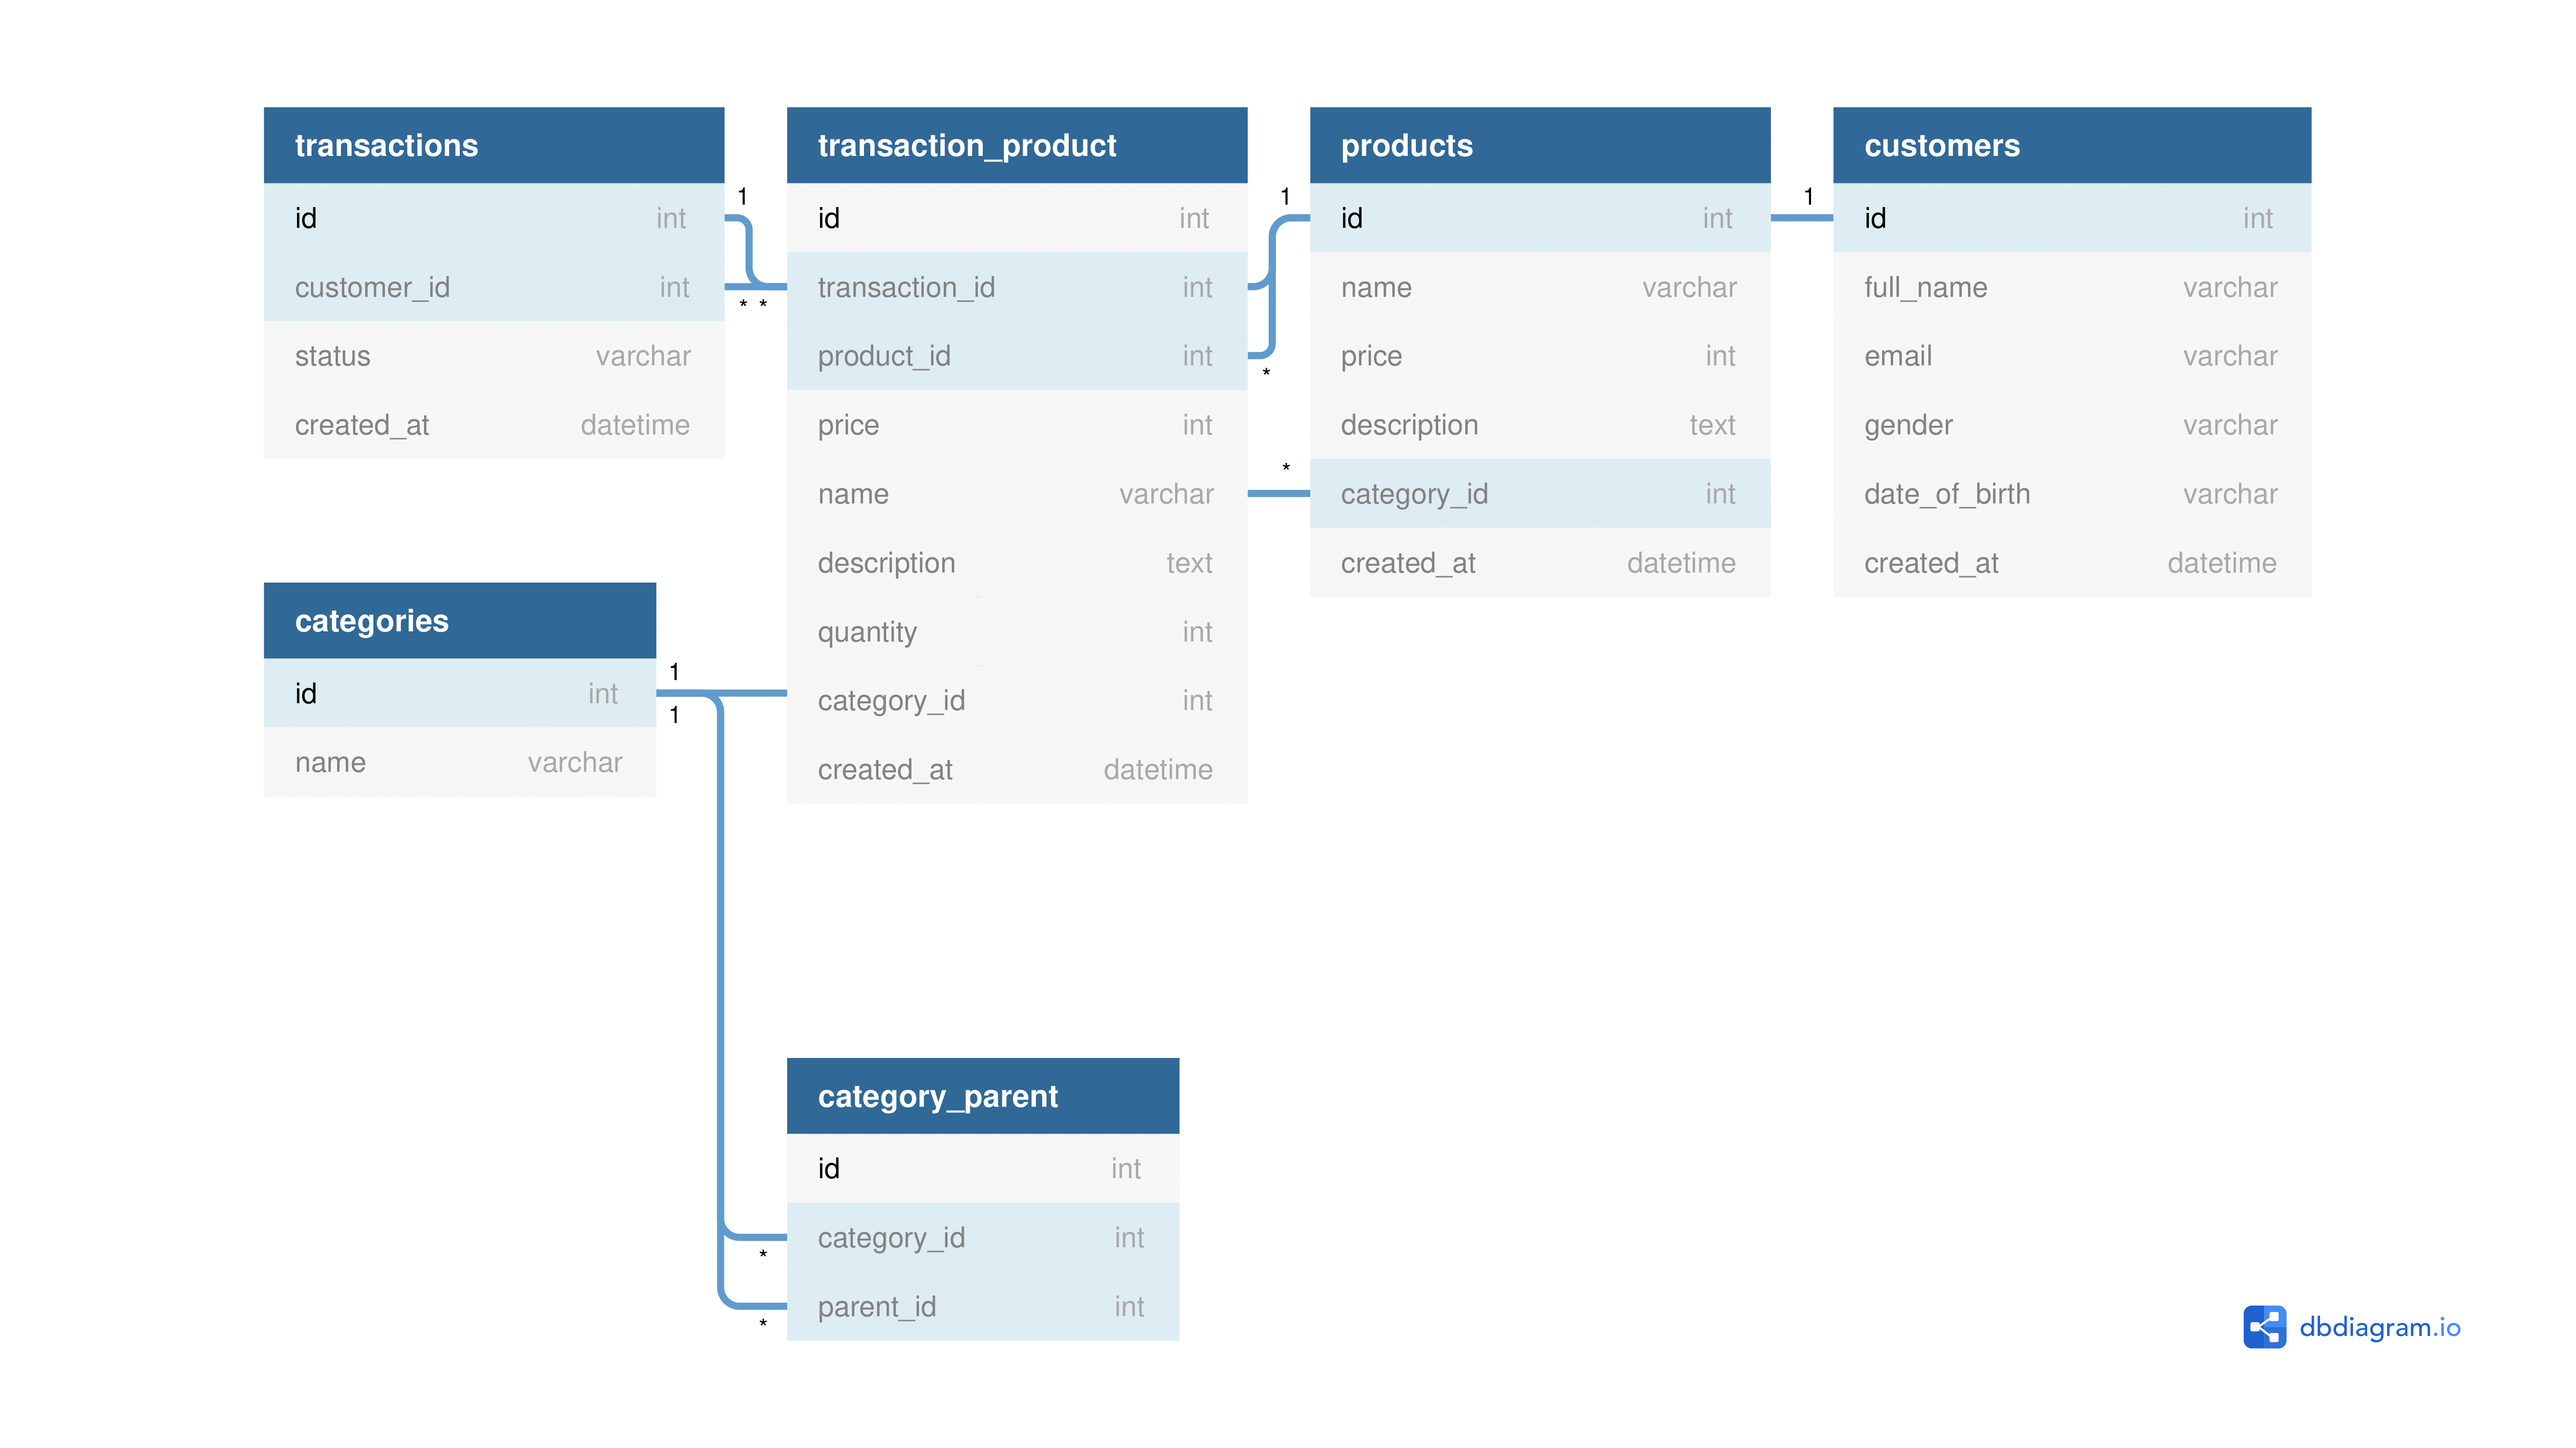
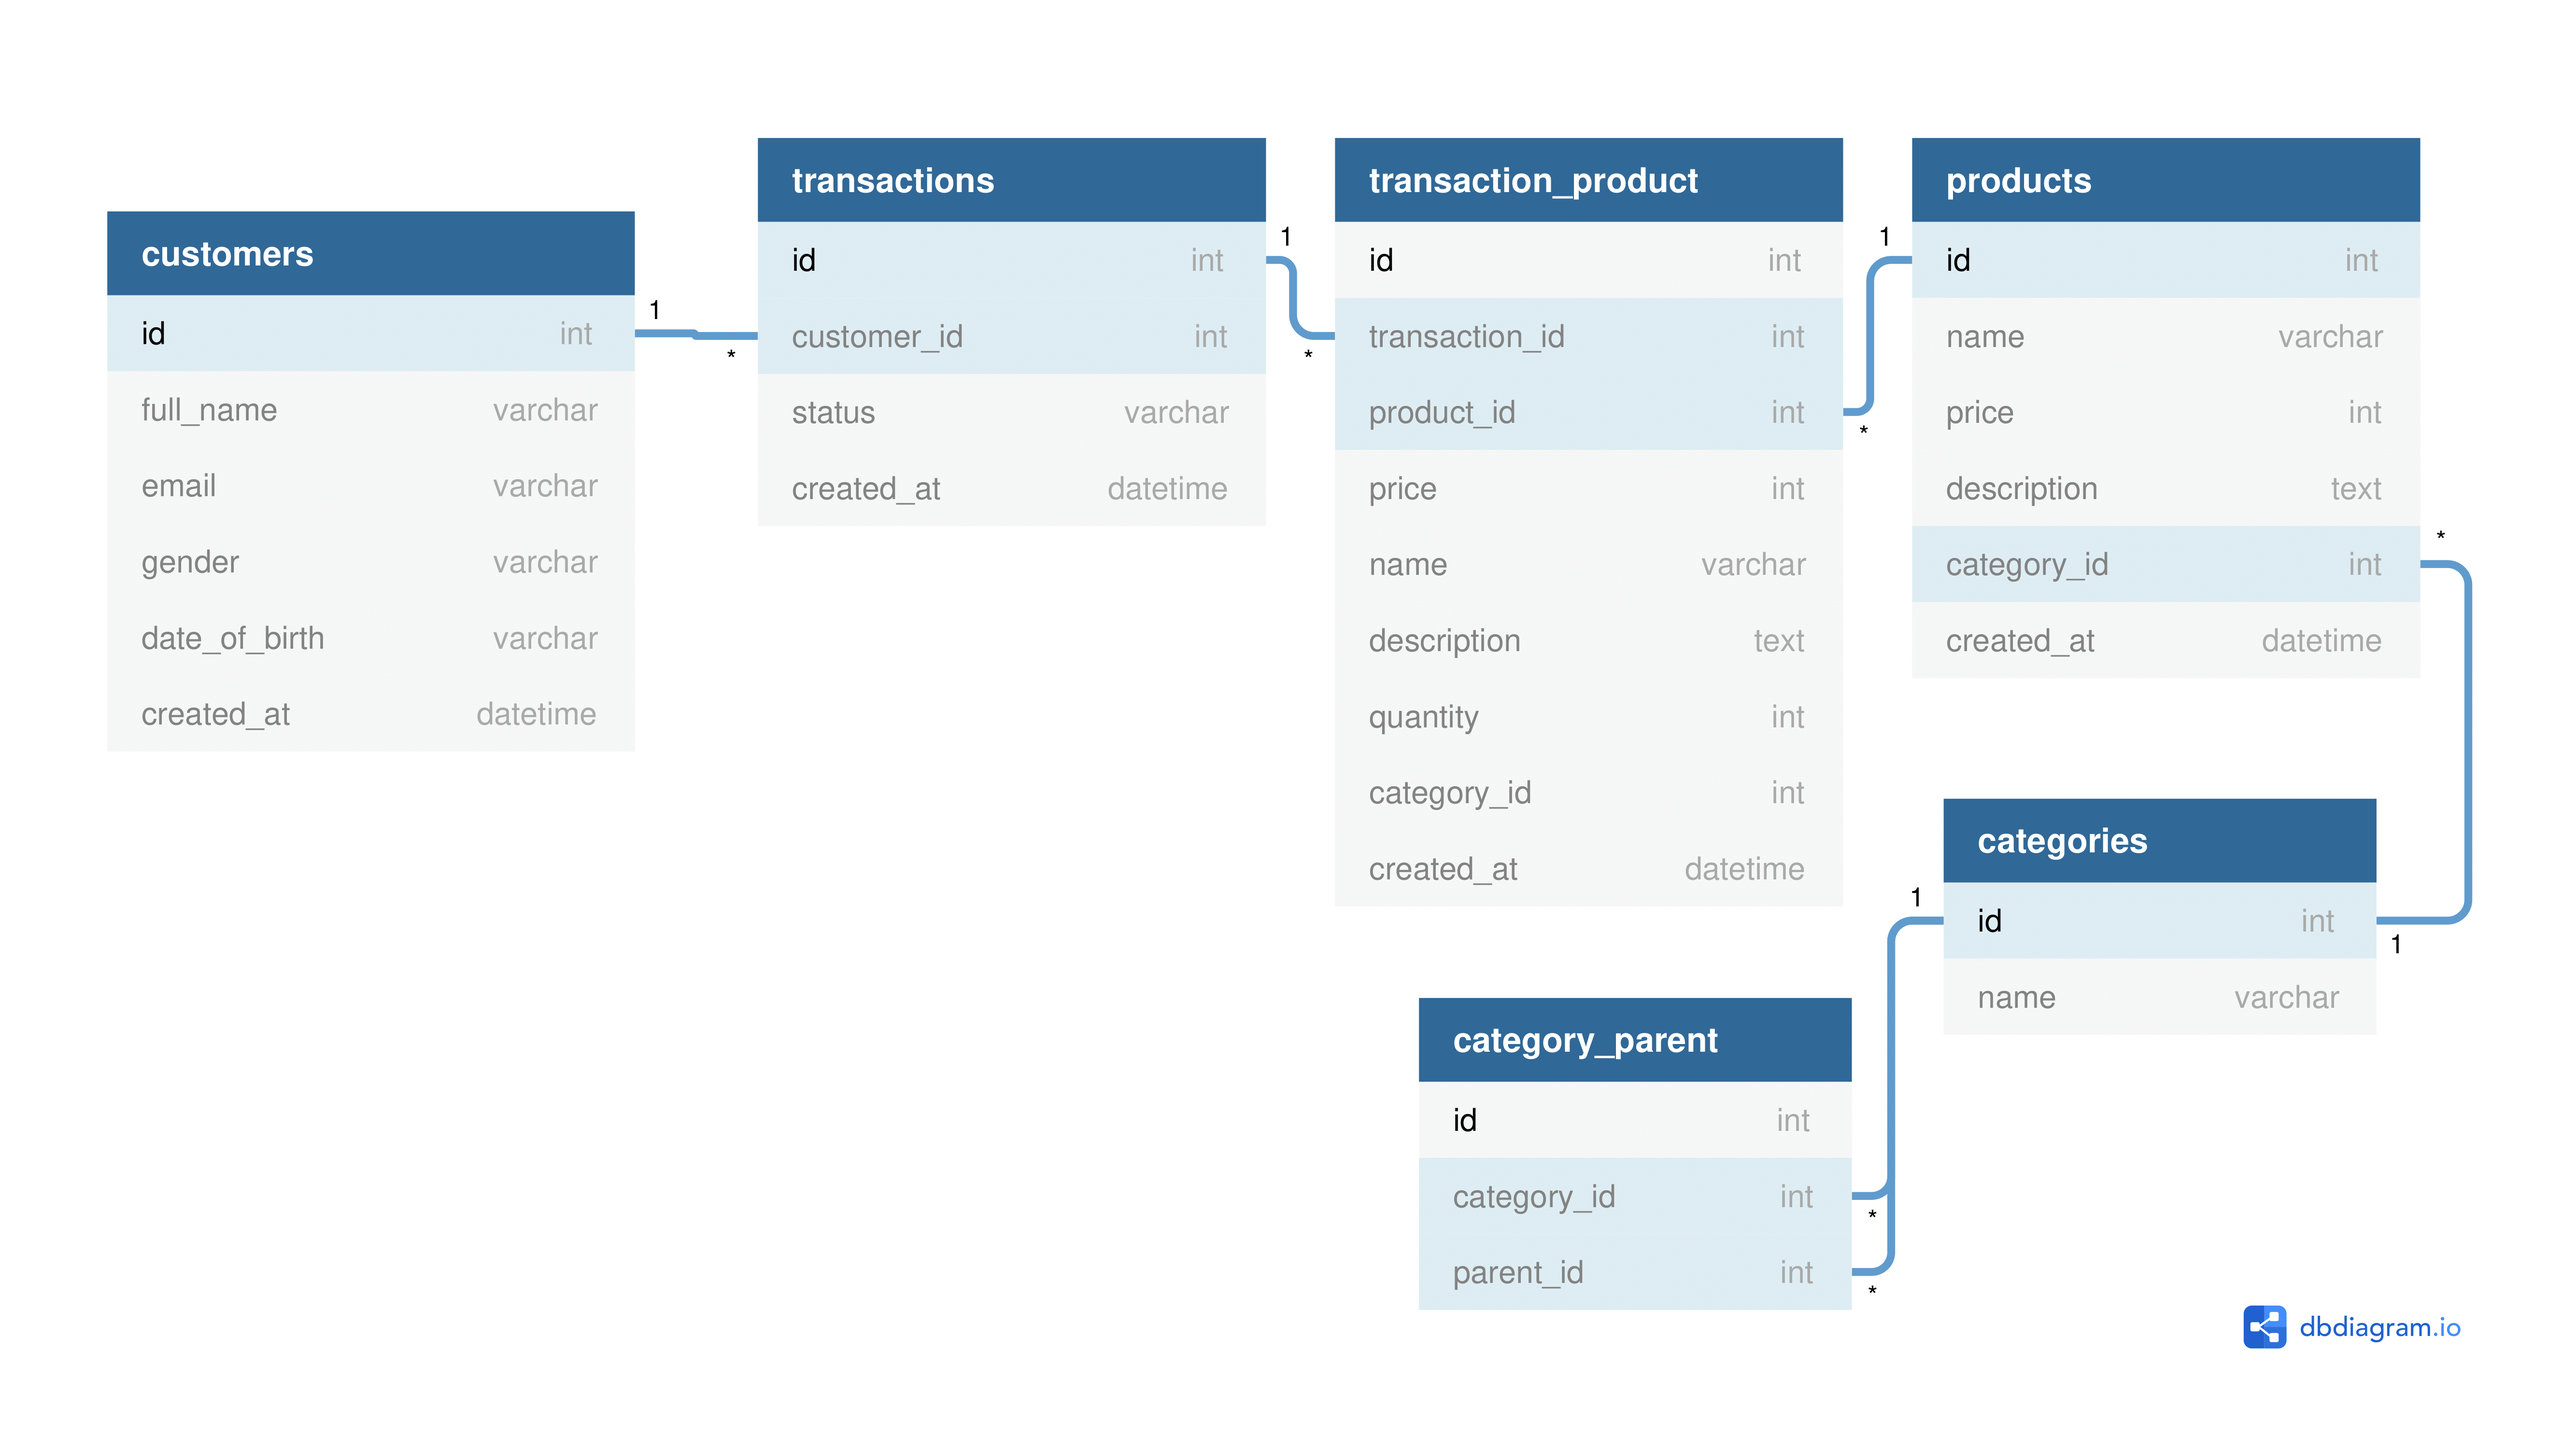
Finishing SQL challenge and fixup ERD mistake

diff --git a/README.md b/README.md
@@ -1,34 +1,238 @@
 # Moutar Take Home Test
 
-## Question 1
+## Question 1: Basic Logic
+
+For this test, you’ll be presented with the following question. You’ll be required to answer the question. Please answer the question (feel free to use your programming language or you can write pseudo code also)
+
+Encryption are represented by seven different symbols:
+
+| Symbol | Value |
+|--------|-------|
+| I      | 1     |
+| V      | 5     |
+| X      | 10    |
+| L      | 50    |
+| C      | 100   |
+| D      | 500   |
+| M      | 1000  |
+
+For example, two is written as II in Qoala Encryption, just two added together. Twelve is Written as XII, which is simply X + II . The number twenty seven is written as XXVII, which is XX + V + II
+
+There are six instances where substraction is used:
+- I can be placed before V(5) and X(10) to make 4 and 9
+- X can be placed before L(50) and C(100) to make 40 and 90
+- C can be placed before D(500) and M(1000) to make 400 and 900
+
+### Example 1
+
+Input: “III”
+
+Output: 3
+
+### Example 2
+
+Input: “IV”
+
+Output: 4
+
+### Example 3
+
+Input: “IX”
+
+Output: 9
+
+### Example 3
+
+Input: “LVIII”
+
+Output: 58
+
+Explanation
+
+- L: 50
+- V: 5
+- III: 3
+
+### Example 4
+
+Input: “MCMXCIV”
+
+Output: 1994
+
+Explaination:
+- M: 1000
+- CM: 900
+- XC: 90
+- IV: 4
 
 ### Answer
 
 See [1.cpp file](1.cpp)
 
-## Question 2
+## Question 2: HTML & CSS
+
+1. Please recreate page as image (in example folder) using plain HTML5 & CSS. Recreate it as close as possible.
+2. Make it mobile responsive
+3. You don’t need to recreate page using same image and font-family, just use any image and font-family.
 
 ### Answer
 
-See the [demo here](http://andraantariksa.github.io/mourtar-take-home-test/2.html) or take a look on the [source code](2.html)
+See the [demo here](http://andraantariksa.github.io/moutar-take-home-test/2.html) or take a look on the [HTML](2.html), [CSS](assets/css/style.css), or [JavaScript](assets/js/script.js)
 
-## Question 3
+## Question 3: SQL
 
-#### A
+Department stores need to analyze their customer, because of that the system needs to store the customer data buying behavior. So, department stores need to collect customer data, transaction data, and also the product data.
+
+**Answer disclaimer**
+
+The SQL I write below are using MySQL standard with ONLY_FULL_GROUP_BY option disabled. The ONLY_FULL_GROUP_BY can be disabled by executing the command below
+
+```
+SET SESSION sql_mode=(SELECT REPLACE(@@sql_mode,'ONLY_FULL_GROUP_BY',''));
+```
+
+#### 1
+
+Please create ERD for the flow above.
 
 ##### Answer
 
 ![Entity Relationship Diagram](3a.png)
 
-#### B
+[Full version](3a.png)
+
+#### 2
+
+Please create query to get best seller product for male and female.
 
 ##### Answer
 
+Best seller product means the product that has the maximum buy quantity from all user that has the same gender. I assume there is only 2 gender in the user record, so I don't have to use `WHERE gender` predicate.
+
+Below is the answer for such problem that handles a product that has multiple maximum buy quantity.
+
+```sql
+SELECT *
+FROM products
+INNER JOIN (
+    SELECT customer_transaction.product_id, customer_transaction.gender, customer_transaction.total_quantity_by_gender
+    FROM (
+        SELECT customers.gender, customer_transaction_product_quantity.product_id, SUM(customer_transaction_product_quantity.quantity) as total_quantity_by_gender
+        FROM customers
+        INNER JOIN (
+            SELECT transactions.customer_id, transaction_product.product_id, transaction_product.quantity
+            FROM transaction_product
+            INNER JOIN transactions
+            ON transaction_product.order_id = transactions.id
+        ) AS customer_transaction_product_quantity
+        ON customer_transaction_product_quantity.customer_id = customers.id
+        GROUP BY product_id, gender
+    ) AS customer_transaction
+    INNER JOIN (
+        SELECT gender_most_buy_product.gender, MAX(gender_most_buy_product.total_quantity_by_gender) as max_quantity_buy_by_gender
+        FROM (
+            SELECT customers.gender, SUM(customer_transaction_product_quantity.quantity) AS total_quantity_by_gender
+            FROM customers
+            INNER JOIN (
+                SELECT transactions.customer_id, transaction_product.product_id, transaction_product.quantity
+                FROM transaction_product
+                INNER JOIN transactions
+                ON transaction_product.order_id = transactions.id
+            ) AS customer_transaction_product_quantity
+            ON customer_transaction_product_quantity.customer_id = customers.id
+            GROUP BY product_id, gender
+        ) AS gender_most_buy_product
+        GROUP BY gender_most_buy_product.gender
+    ) as gender_max_total_buy_product
+    ON gender_max_total_buy_product.max_quantity_buy_by_gender = customer_transaction.total_quantity_by_gender
+    AND gender_max_total_buy_product.gender = customer_transaction.gender
+) AS gender_most_buy_product
+ON gender_most_buy_product.product_id = products.id;
 ```
 
+Example case:
+
+| Gender | Quantity Buy by Gender | Product ID |
+|--------|------------------------|------------|
+| male   | 5                      | 1          |
+| male   | 5                      | 2          |
+| male   | 1                      | 3          |
+| male   | 4                      | 4          |
+| male   | 4                      | 5          |
+| female | 5                      | 1          |
+| female | 5                      | 2          |
+| female | 1                      | 3          |
+| female | 6                      | 4          |
+| female | 6                      | 5          |
+
+Result of best selling product:
+
+| Gender | Quantity Buy by Gender | Product ID |
+|--------|------------------------|------------|
+| male   | 5                      | 1          |
+| male   | 5                      | 2          |
+| female | 6                      | 4          |
+| female | 6                      | 5          |
+
+* Other product information are removed for the sake of brevity
+
+---
+
+And below is the answer for such problem that does not handles a product that has multiple maximum buy quantity.
+
+```sql
+SELECT *
+FROM (
+    SELECT *
+    FROM (
+        SELECT
+            customers.gender,
+            SUM(customer_transaction_product_quantity.quantity) as total_quantity_by_gender,
+            customer_transaction_product_quantity.product_id
+        FROM customers
+        INNER JOIN (
+            SELECT transactions.customer_id, transaction_product.product_id, transaction_product.quantity
+            FROM transaction_product
+            INNER JOIN transactions
+            ON transaction_product.order_id = transactions.id
+        ) AS customer_transaction_product_quantity
+        ON customer_transaction_product_quantity.customer_id = customers.id
+        GROUP BY product_id, gender
+        ORDER BY SUM(customer_transaction_product_quantity.quantity) DESC
+    ) AS gender_most_buy_product
+    GROUP BY gender_most_buy_product.gender
+) AS gender_most_buy_product
+INNER JOIN products
+ON products.id = gender_most_buy_product.product_id;
 ```
 
-#### C
+Example case:
+
+| Gender | Quantity Buy by Gender | Product ID |
+|--------|------------------------|------------|
+| male   | 5                      | 1          |
+| male   | 5                      | 2          |
+| male   | 1                      | 3          |
+| male   | 4                      | 4          |
+| male   | 4                      | 5          |
+| female | 5                      | 1          |
+| female | 5                      | 2          |
+| female | 1                      | 3          |
+| female | 6                      | 4          |
+| female | 6                      | 5          |
+
+Result of best selling product:
+
+| Gender | Quantity Buy by Gender | Product ID |
+|--------|------------------------|------------|
+| male   | 5                      | 1          |
+| female | 6                      | 4          |
+
+* Other product information are removed for the sake of brevity
+
+#### 3
+
+Please create query to get customer that spends the most money.
 
 ##### Answer
 
@@ -36,16 +240,18 @@ See the [demo here](http://andraantariksa.github.io/mourtar-take-home-test/2.htm
 SELECT *
 FROM customers
 INNER JOIN (
-    SELECT transactions.customer_id, SUM(transaction_product.price) as total_spent FROM
+    SELECT transactions.customer_id, SUM(transaction_product.price * transaction_product.quantity) as total_spent FROM
         transaction_product INNER JOIN transactions ON transaction_product.order_id = transactions.id
     GROUP BY transactions.customer_id
-    ORDER BY SUM(transaction_product.price) DESC
+    ORDER BY SUM(transaction_product.price * transaction_product.quantity) DESC
     LIMIT 1
 ) AS customer_total_spent
 ON customer_total_spent.customer_id = customers.id;
 ```
 
-#### D
+#### 4
+
+Please create query to show number of transactions for every 2 hours.
 
 ##### Answer
 
